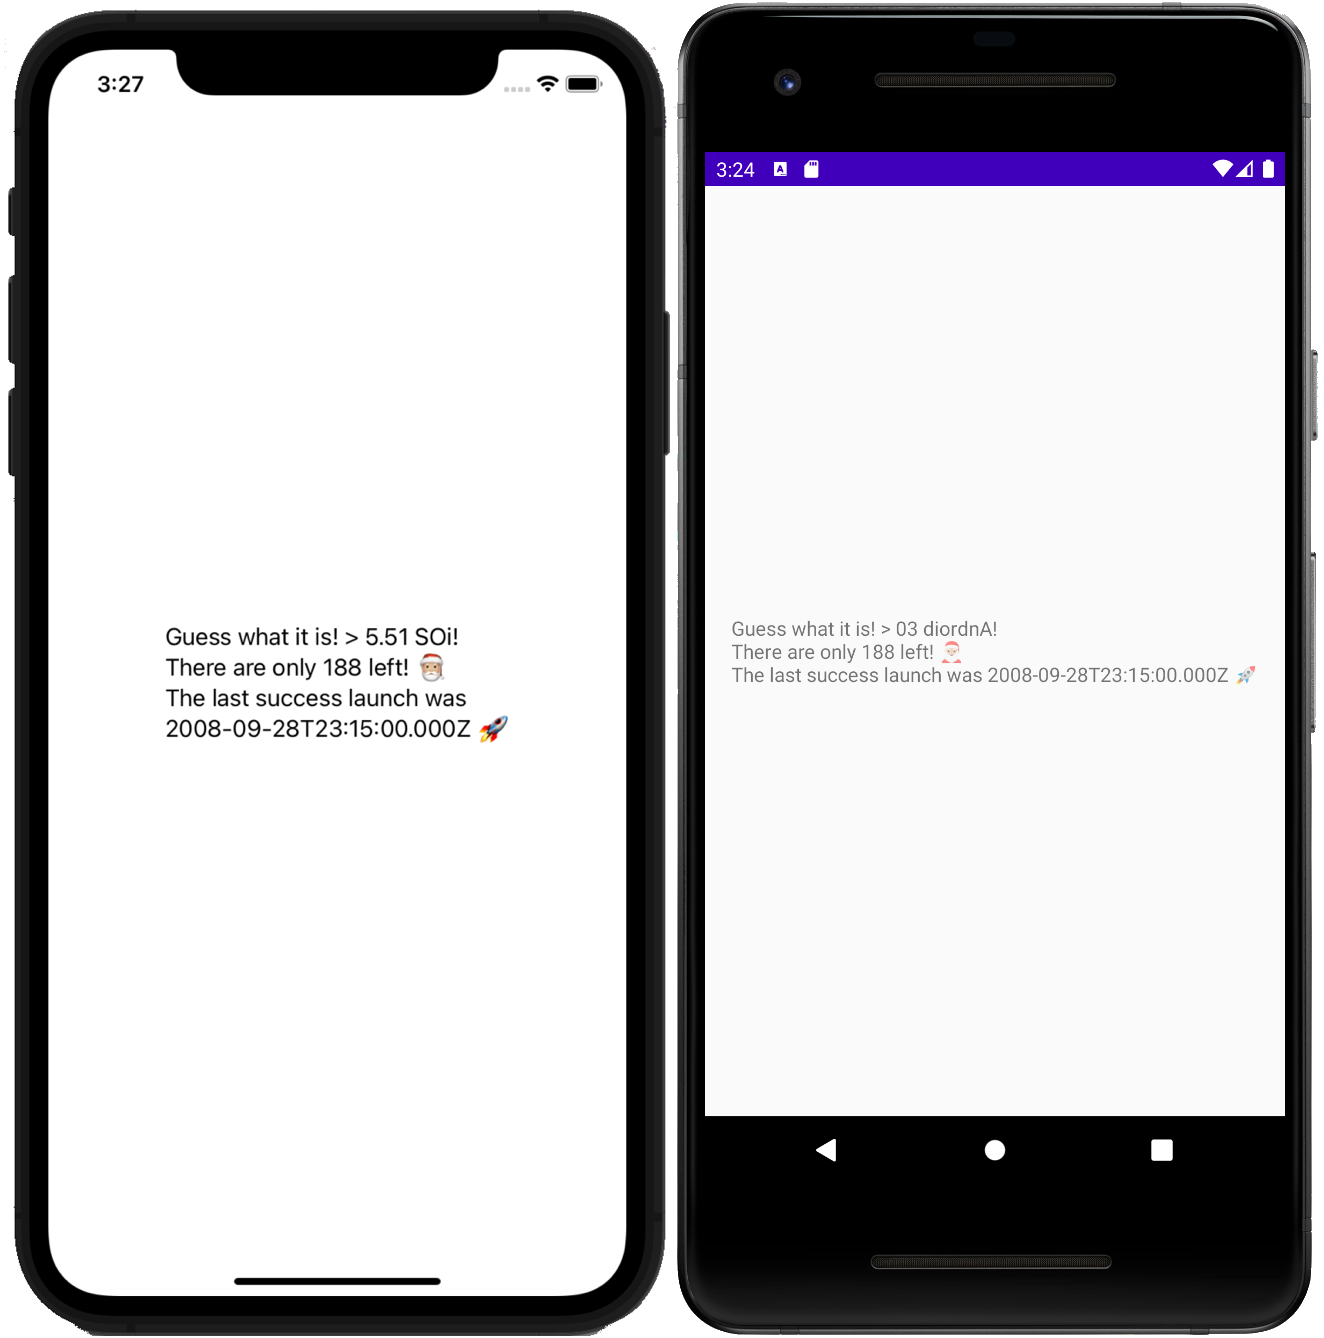
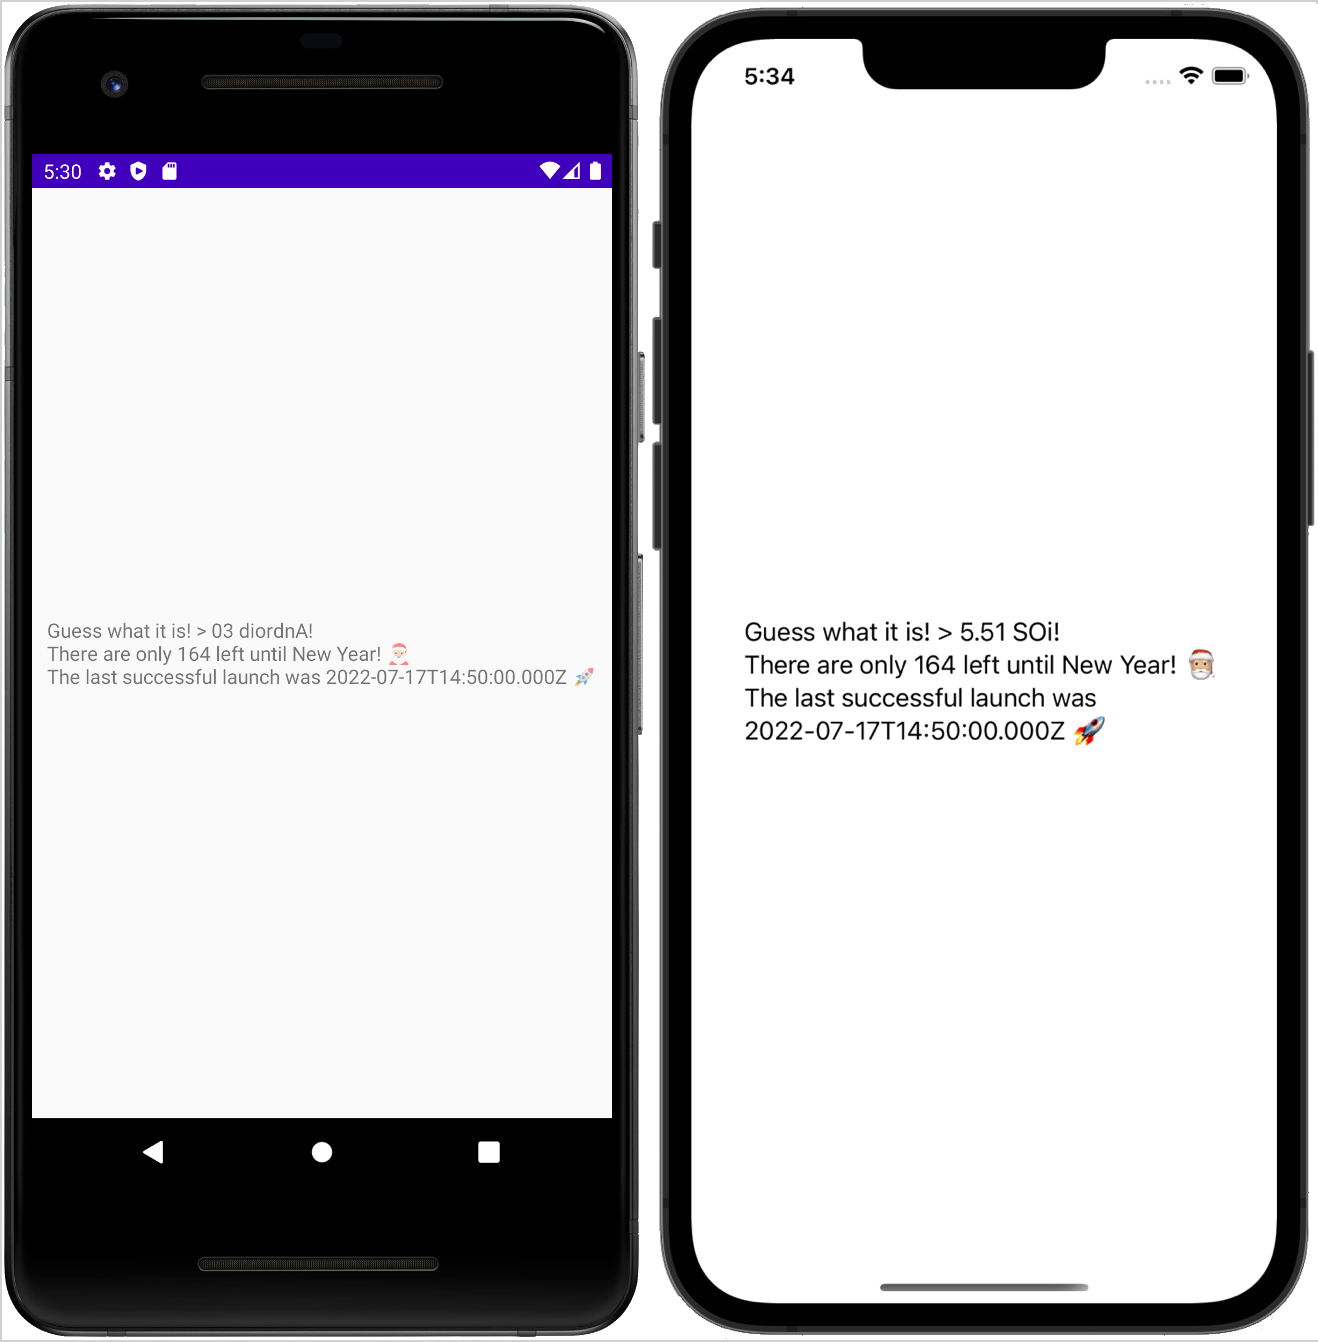
fix: new screenshots and minor changes

diff --git a/docs/topics/multiplatform-mobile/multiplatform-mobile-create-first-app.md b/docs/topics/multiplatform-mobile/multiplatform-mobile-create-first-app.md
@@ -33,14 +33,15 @@ do this for the first time.
 
 ## Examine the project structure
 
-To view the complete structure of your mobile multiplatform project, switch the view from **Android** to **Project**.
+To view the full structure of your mobile multiplatform project, switch the view from **Android** to **Project**.
 
 ![Select the Project view](select-project-view.png){width=200}  
 
 There are three modules in a Kotlin Mobile Multiplatform project:
 
-* _shared_ is a Kotlin module that contains common logic for both Android and iOS applications. It builds into an Android
-  library and an iOS framework. Uses [Gradle](gradle.md) as a build system that helps you automate your building process.
+* _shared_ is a Kotlin module that contains common logic for both Android and iOS applications, the code you share between
+  platforms. It uses [Gradle](gradle.md) as a build system that helps you automate your building process. The _shared_
+  module builds into an Android library and an iOS framework. 
 * _androidApp_ is a Kotlin module that builds into an Android application. It uses Gradle as a build system.
   The _androidApp_ module depends on and uses the shared module as a regular Android library.
 * _iOSApp_ is an Xcode project that builds into an iOS application. It depends on and uses the shared module as an iOS
@@ -50,11 +51,17 @@ There are three modules in a Kotlin Mobile Multiplatform project:
 
 ![Basic Multiplatform Mobile project structure](basic-project-structure.png){width=500}
 
+The shared module consists of three source sets: `androidMain`, `commonMain`, and `iosMain`. _Source set_ is a Gradle
+concept for a number of files logically grouped together, where each group has its own dependencies. In Kotlin Multiplatform,
+different source sets in a shared module can target different platforms.
+
+![Source sets and modules structure](basic-project-structure-2.png){width=500}
+
 > This is the structure of a Multiplatform Mobile project that you create with a Project Wizard in IntelliJ IDEA or Android
-> Studio. Real-life projects can have more complex structure.
+> Studio. Real-life projects can have a more complex structure.
 >
 {type="note"}
-    
+
 ## Run your application 
 
 You can run your multiplatform application on [Android](#run-your-application-on-android) or [iOS](#run-your-application-on-ios).

diff --git a/docs/topics/multiplatform-mobile/multiplatform-mobile-upgrade-app.md b/docs/topics/multiplatform-mobile/multiplatform-mobile-upgrade-app.md
@@ -42,7 +42,7 @@ Multiplatform Gradle plugin automatically adds a dependency to the platform-spec
 of `kotlinx.coroutines`.
 
 You'll also use the new memory manager for Kotlin/Native, which will become default soon. For this, add the following
-at the end `build.gradle.kts` file:
+at the end of the `build.gradle.kts` file:
 
 ```kotlin
 kotlin.targets.withType(org.jetbrains.kotlin.gradle.plugin.mpp.KotlinNativeTarget::class.java) {
@@ -176,7 +176,7 @@ with more readable names.
             val lastSuccessLaunch = rockets.last { it.launchSuccess == true }
             return "Guess what it is! > ${Platform().platform.reversed()}!" +
                 "\nThere are only ${daysUntilNewYear()} left until New Year! 🎅🏼 " +
-                "\nThe last success launch was ${lastSuccessLaunch.launchDateUTC} 🚀"
+                "\nThe last successful launch was ${lastSuccessLaunch.launchDateUTC} 🚀"
         }
     }
     ```
@@ -340,10 +340,9 @@ is already imported and used in `ContentView.swift` with `import shared`.
    callbacks (`completionHandler`).
    * The `greeting()` function was marked with the `@Throws(Exception::class)` annotation. So any exceptions that are
    instances of the `Exception` class or its subclass will be propagated as `NSError`, so you can handle them in the `completionHandler`.
-   * When calling Kotlin `suspend` functions from Swift, completion handlers might be called on threads other than the main,
+   * When calling Kotlin `suspend` functions from Swift, completion handlers might be called on threads other than main,
    see the [new memory manager migration guide](https://github.com/JetBrains/kotlin/blob/master/kotlin-native/NEW_MM.md#new-memory-manager-migration-guide).
-   That's why `DispatchQueue.main.async` is used to update `text` property, as all UI updates on other threads than main
-   are now allowed in Swift.
+   That's why `DispatchQueue.main.async` is used to update `text` property.
 
 6. Run both the iOS and Android applications from Android Studio and make sure your app's logic is synced:
 

diff --git a/docs/topics/multiplatform-mobile/multiplatform-mobile-dependencies.md b/docs/topics/multiplatform-mobile/multiplatform-mobile-dependencies.md
@@ -13,14 +13,16 @@ to third-party libraries, which are necessary for building any successful cross-
 There are two types of dependencies that you can use in Multiplatform Mobile projects:
 
 * _Multiplatform dependencies_. These are multiplatform libraries that support multiple targets and can be used in a
-  common
-  source set. A lot of modern Android libraries already have multiplatform support, for
-  example, [Koin](https://insert-koin.io/), [Appolo](https://www.apollographql.com/), [Okio](https://square.github.io/okio/).
+  common source set, `commonMain`.
+  
+  A lot of modern Android libraries already have multiplatform
+  support, for example, [Koin](https://insert-koin.io/), [Appolo](https://www.apollographql.com/), [Okio](https://square.github.io/okio/).
 * _Native dependencies_. These are regular libraries from relevant ecosystems, you usually work with in native iOS (using CocoaPods or other
   dependency managers) or Android projects using Gradle.
 
-  When you work with a common module, you can also depend on them and use them in native source sets. Typically, this is
-  needed when you want to work with platform API, for example, security storage, and there is a common logic around it.
+  When you work with a shared module, you can also depend on them and use them in native source sets, `androidMain`
+  and `iosMain`. Typically, you'll need these dependencies when you want to work with platform API, for example security
+  storage, and there is a common logic around it.
 
 For both types of dependencies, you can use local and external repositories.
 
